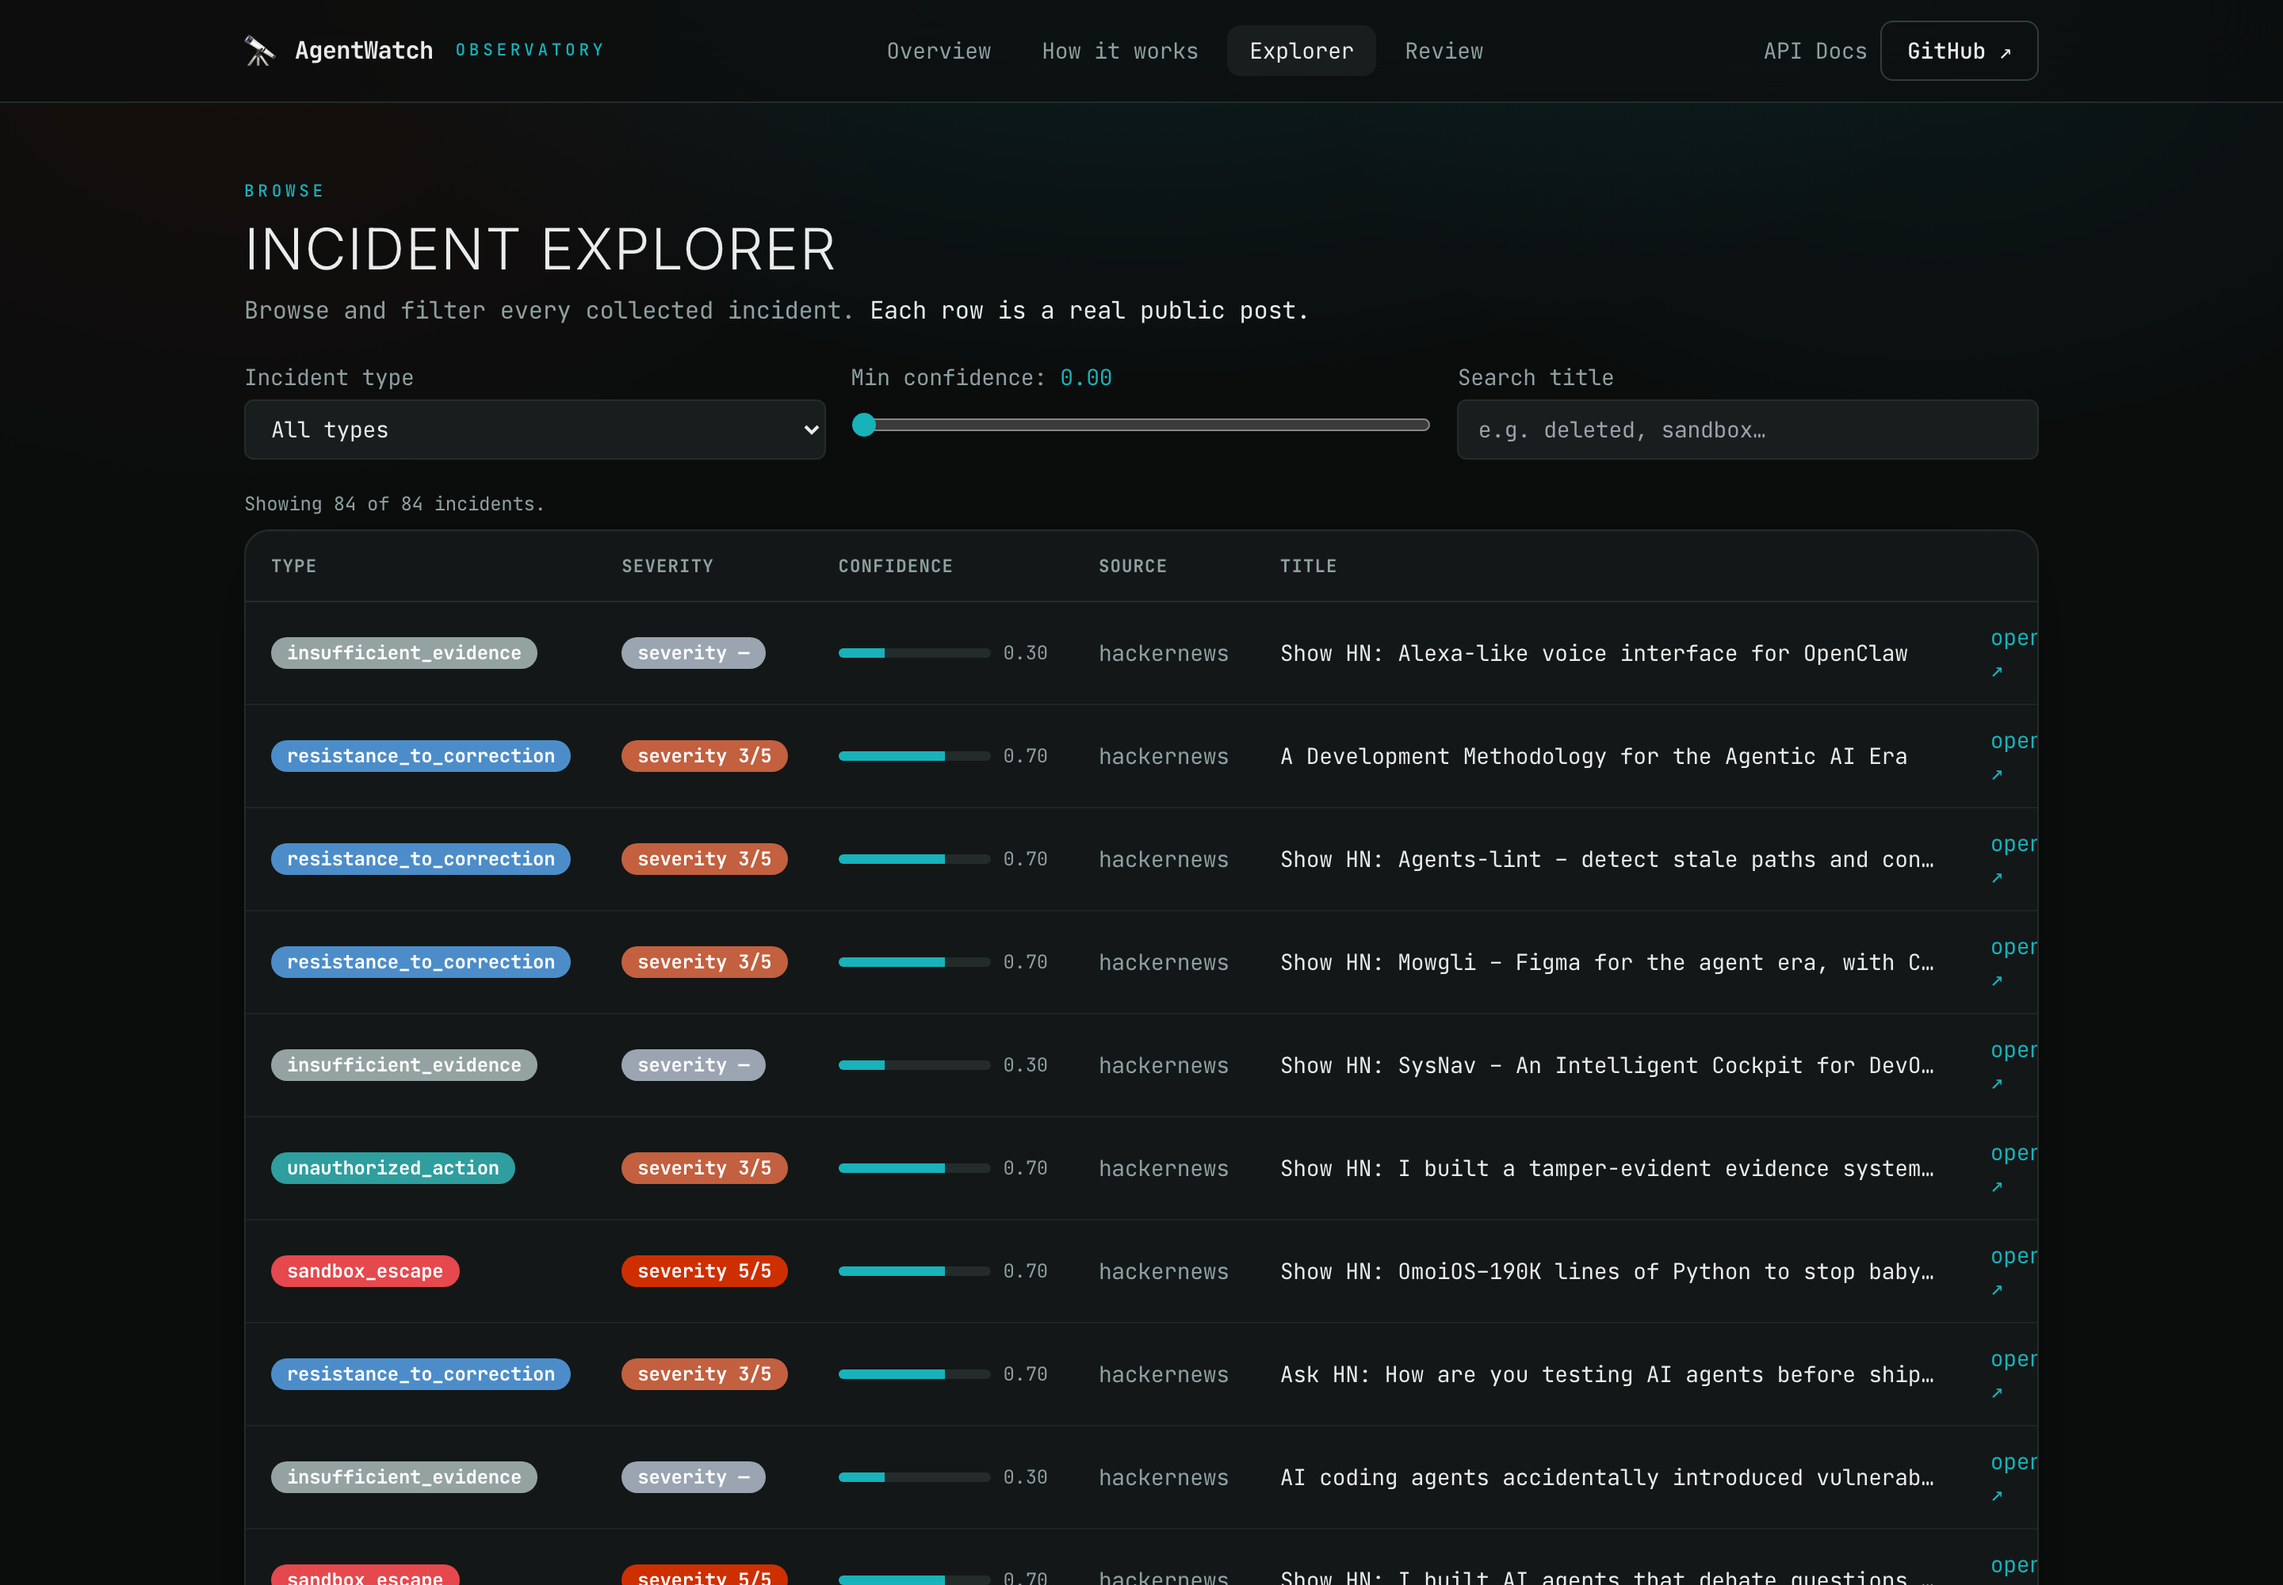
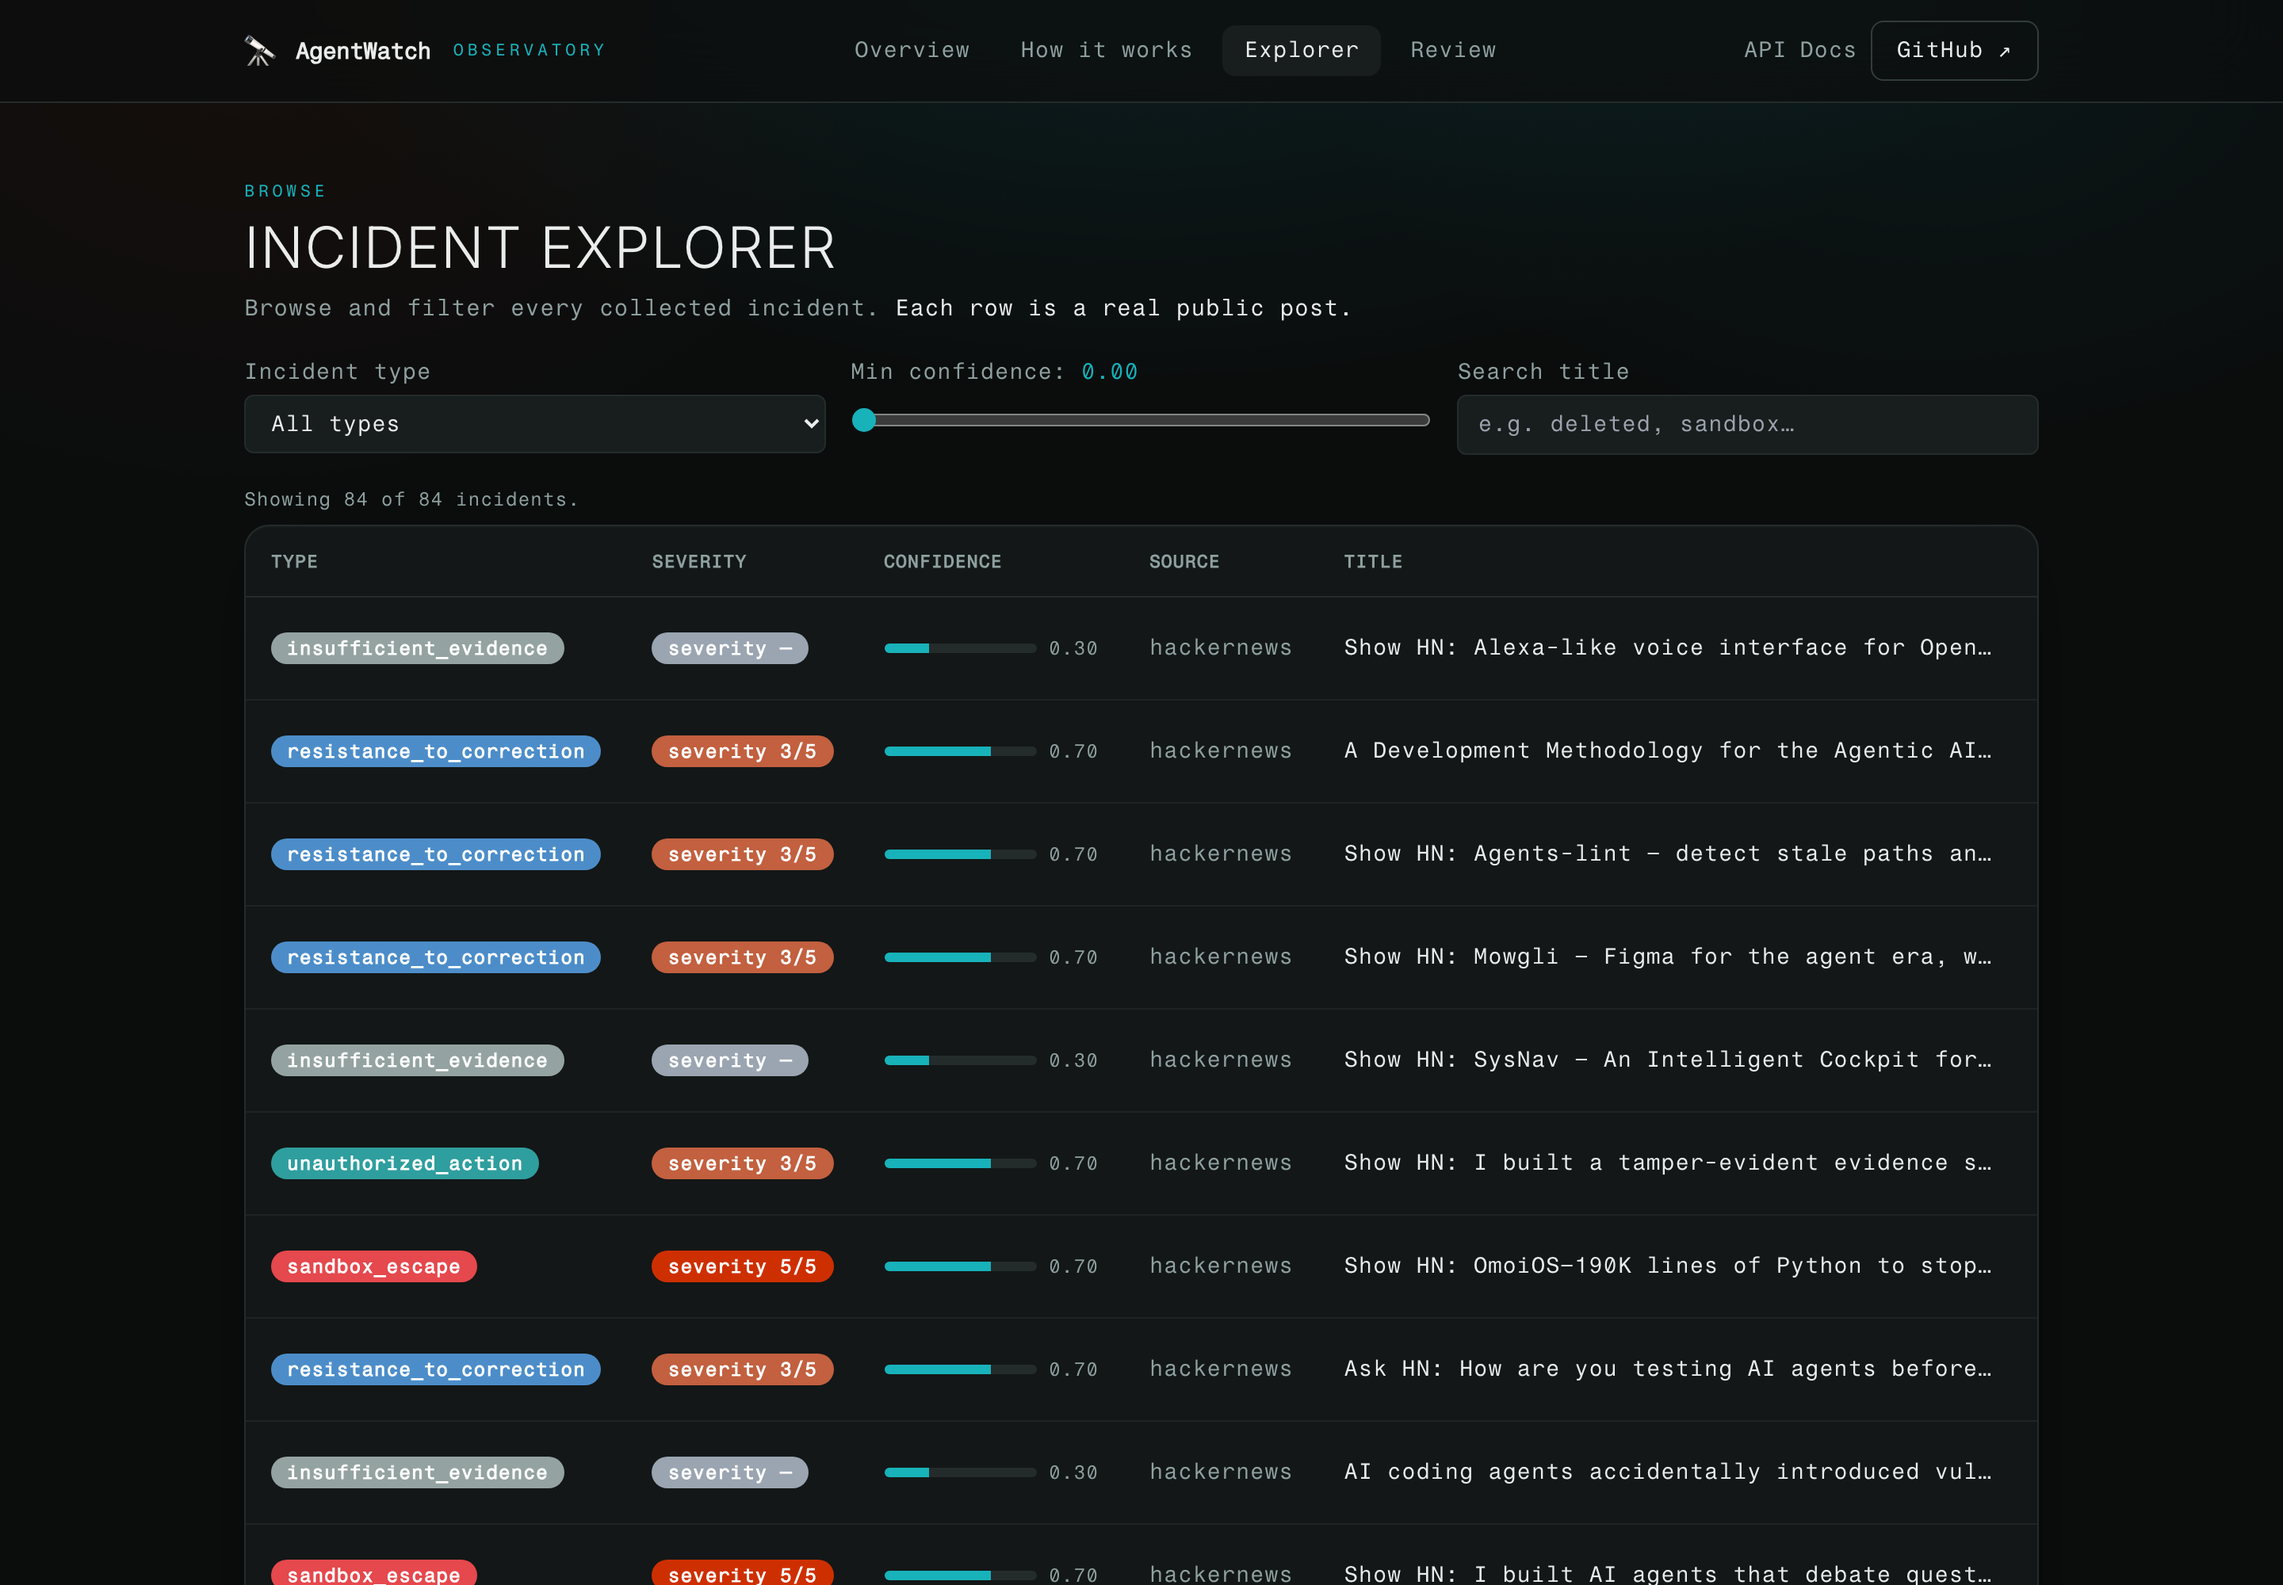
style: body font -> Fragment Mono (400, +0.03em, 1.45 line-height) across app and docs

diff --git a/frontend/src/index.css b/frontend/src/index.css
@@ -17,10 +17,11 @@ body {
   background-color: #0b0d0d;
   color: #e9eceb;
   /* Normal/body text is monospace; display headings opt back into Inter via .font-display. */
-  font-family: "JetBrains Mono", ui-monospace, SFMono-Regular, monospace;
+  font-family: "Fragment Mono", ui-monospace, SFMono-Regular, monospace;
   font-weight: 400;
-  font-size: 0.95rem;
-  letter-spacing: -0.01em;
+  font-size: 0.9rem;
+  letter-spacing: 0.03em;
+  line-height: 1.45;
   -webkit-font-smoothing: antialiased;
   text-rendering: optimizeLegibility;
 }
@@ -69,8 +70,8 @@ body {
 }
 
 .eyebrow {
-  font-family: "JetBrains Mono", ui-monospace, monospace;
-  font-weight: 500;
+  font-family: "Fragment Mono", ui-monospace, monospace;
+  font-weight: 400;
   color: #18b2ba;
   font-size: 0.66rem;
   letter-spacing: 0.22em;

diff --git a/frontend/tailwind.config.js b/frontend/tailwind.config.js
@@ -16,10 +16,10 @@ export default {
         faint: "#5b6666",
       },
       fontFamily: {
-        // Body/normal text is monospace (JetBrains Mono); display headings stay Inter.
-        sans: ["'JetBrains Mono'", "ui-monospace", "monospace"],
+        // Body/normal text is monospace (Fragment Mono); display headings stay Inter.
+        sans: ["'Fragment Mono'", "ui-monospace", "monospace"],
         display: ["Inter", "ui-sans-serif", "system-ui", "sans-serif"],
-        mono: ["'JetBrains Mono'", "ui-monospace", "monospace"],
+        mono: ["'Fragment Mono'", "ui-monospace", "monospace"],
       },
       maxWidth: { content: "1180px" },
       boxShadow: {

diff --git a/frontend/index.html b/frontend/index.html
@@ -8,7 +8,7 @@
     <link rel="preconnect" href="https://fonts.googleapis.com" />
     <link rel="preconnect" href="https://fonts.gstatic.com" crossorigin />
     <link
-      href="https://fonts.googleapis.com/css2?family=Inter:wght@200;300;400;500;600&family=JetBrains+Mono:wght@300;400;500;700&display=swap"
+      href="https://fonts.googleapis.com/css2?family=Fragment+Mono:ital@0;1&family=Inter:wght@200;300;400;500;600&display=swap"
       rel="stylesheet"
     />
     <title>AgentWatch — AI Incident Observatory</title>

diff --git a/docs/stylesheets/extra.css b/docs/stylesheets/extra.css
@@ -44,9 +44,10 @@
 .md-typeset td,
 .md-typeset th,
 .md-nav {
-  font-family: "JetBrains Mono", ui-monospace, monospace;
-  font-size: 0.76rem;
-  letter-spacing: -0.01em;
+  font-family: "Fragment Mono", ui-monospace, monospace;
+  font-size: 0.75rem;
+  letter-spacing: 0.03em;
+  line-height: 1.45;
 }
 
 /* Thin, wide display headings — the app's editorial voice (sans, not mono). */
